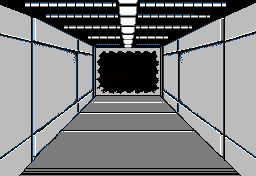
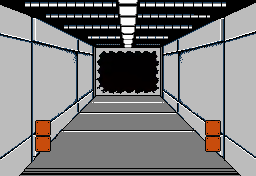
Add sprites hammer bros

Changed region(s): [[0.7812, 0.6818, 0.875, 0.8807], [0.125, 0.6818, 0.2188, 0.8807]]

diff --git a/2DGame/02-Bubble/02-Bubble/HammerBros.cpp b/2DGame/02-Bubble/02-Bubble/HammerBros.cpp
@@ -1,0 +1,130 @@
+#include "HammerBros.h"
+#include <cmath>
+#include <iostream>
+#include <GL/glew.h>
+#include <GL/glut.h>
+#include "Balas.h"
+
+#define NUM_BALES 90
+#define FALL_STEP 4
+
+
+enum HammerBrosAnims
+{
+	MOVE_RIGHT, MOVE_LEFT, ATTACK_RIGHT, ATTACK_LEFT, DIE_RIGHT, DIE_LEFT
+};
+
+void HammerBros::init(const glm::ivec2& tileMapPos, ShaderProgram& shaderProgram)
+{
+	hp = 5;
+	dead = false;
+	direction = MOVE_LEFT;
+	spritesheet.loadFromFile("images/hammer_bros.png", TEXTURE_PIXEL_FORMAT_RGBA);
+
+	spriteSize = glm::ivec2(16, 24);
+
+	//for (int i = 0; i < NUM_BALES; i++)
+	//{
+		//bales[i] = new Balas();
+		//bales[i]->init(tileMapPos, shaderProgram);
+		//bales[i]->setTileMap(map);
+	//}
+
+	sprite = Sprite::createSprite(spriteSize, glm::vec2(0.25, 0.25), &spritesheet, &shaderProgram);
+	sprite->setNumberAnimations(6);
+
+	sprite->setAnimationSpeed(MOVE_RIGHT, 8);
+	sprite->addKeyframe(MOVE_RIGHT, glm::vec2(0.75f, 0.0f));
+	sprite->addKeyframe(MOVE_RIGHT, glm::vec2(0.5f, 0.0f));
+
+	sprite->setAnimationSpeed(MOVE_LEFT, 8);
+	sprite->addKeyframe(MOVE_LEFT, glm::vec2(0.25f, 0.0f));
+	sprite->addKeyframe(MOVE_LEFT, glm::vec2(0.0f, 0.0f));
+
+	sprite->setAnimationSpeed(ATTACK_RIGHT, 8);
+	sprite->addKeyframe(ATTACK_RIGHT, glm::vec2(0.75f, 0.25f));
+	sprite->addKeyframe(ATTACK_RIGHT, glm::vec2(0.5f, 0.25f));
+
+	sprite->setAnimationSpeed(ATTACK_LEFT, 8);
+	sprite->addKeyframe(ATTACK_LEFT, glm::vec2(0.25f, 0.25f));
+	sprite->addKeyframe(ATTACK_LEFT, glm::vec2(0.0f, 0.25f));
+
+	sprite->setAnimationSpeed(DIE_LEFT, 8);
+	sprite->addKeyframe(DIE_LEFT, glm::vec2(0.0f, 0.5f));
+	sprite->addKeyframe(DIE_LEFT, glm::vec2(0.25f, 0.5f));
+	sprite->addKeyframe(DIE_LEFT, glm::vec2(0.5f, 0.5f));
+	sprite->addKeyframe(DIE_LEFT, glm::vec2(0.75f, 0.5f));
+
+	sprite->setAnimationSpeed(DIE_RIGHT, 8);
+	sprite->addKeyframe(DIE_RIGHT, glm::vec2(0.75f, 0.75f));
+	sprite->addKeyframe(DIE_RIGHT, glm::vec2(0.5f, 0.75f));
+	sprite->addKeyframe(DIE_RIGHT, glm::vec2(0.25f, 0.75f));
+	sprite->addKeyframe(DIE_RIGHT, glm::vec2(0.0f, 0.75f));
+
+	sprite->changeAnimation(direction);
+	tileMapDispl = tileMapPos;
+	sprite->setPosition(glm::vec2(float(tileMapDispl.x + posPlayer.x), float(tileMapDispl.y + posPlayer.y)));
+}
+
+void HammerBros::update(int deltaTime)
+{
+	sprite->update(deltaTime);
+	if ((sprite->animation() == DIE_LEFT || sprite->animation() == DIE_RIGHT) && sprite->lastKeyFrame())
+		dead = true;
+	if (hp > 0) {
+		posPlayer.y += FALL_STEP;
+		bJumping = !map->collisionMoveDown(posPlayer, spriteSize, &posPlayer.y);
+		if (map->collisionMoveLeft(posPlayer, spriteSize))
+			direction = MOVE_RIGHT;
+		else if (map->collisionMoveRight(posPlayer, spriteSize))
+			direction = MOVE_LEFT;
+
+		if (direction == MOVE_LEFT)
+		{
+			if (sprite->animation() != MOVE_LEFT)
+				sprite->changeAnimation(MOVE_LEFT);
+			posPlayer.x -= 1;
+		}
+		else if (direction == MOVE_RIGHT)
+		{
+			if (sprite->animation() != MOVE_RIGHT)
+				sprite->changeAnimation(MOVE_RIGHT);
+			posPlayer.x += 1;
+		}
+		else if (direction == ATTACK_LEFT && sprite->lastKeyFrame())
+		{
+			sprite->changeAnimation(MOVE_LEFT);
+			posPlayer.x -= 1;
+
+		}
+		else
+		{
+			sprite->changeAnimation(MOVE_RIGHT);
+			posPlayer.x -= 1;
+		}
+
+		//if (sprite->lastKeyFrame())
+		//{
+			//if (direction == MOVE_LEFT && ((double)rand() / (RAND_MAX)) < 0.005)
+				//direction = ATTACK_LEFT;
+			//else if (direction == MOVE_RIGHT && ((double)rand() / (RAND_MAX)) < 0.005)
+				//direction = ATTACK_RIGHT;
+		//}
+	}
+	else
+	{
+		if (direction == DIE_LEFT && sprite->animation() != DIE_LEFT)
+			sprite->changeAnimation(DIE_LEFT);
+		else if (direction == DIE_RIGHT && sprite->animation() != DIE_RIGHT)
+			sprite->changeAnimation(DIE_RIGHT);
+	}
+
+	sprite->setPosition(glm::vec2(float(tileMapDispl.x + posPlayer.x), float(tileMapDispl.y + posPlayer.y)));
+}
+
+//void HammerBros::render()
+//{
+	//if (!dead)
+		//sprite->render();
+//}
+

diff --git a/2DGame/02-Bubble/02-Bubble/Scene.cpp b/2DGame/02-Bubble/02-Bubble/Scene.cpp
@@ -102,7 +102,7 @@ int Scene::update(int deltaTime)
 	}
 	else if (level == 3 && goalState3()) return 0;
 	
-
+	hammerBros->update(deltaTime);
 	updateCamera(deltaTime);
 	return 1;	// si te quedas sin vidas retorna 0 que es volver al Menu
 }
@@ -150,6 +150,8 @@ void Scene::render()
 		explosion->setPosition(glm::ivec2(160 , 70));
 		explosion->render();
 	}
+
+	hammerBros->render();
 
 	//textLifes.render("Lifes: " + to_string(lives), glm::vec2(10, 10 + 32), 32, glm::vec4(1, 1, 1, 1));
 }
@@ -209,6 +211,7 @@ void Scene::loadLevel(int lvl)
 	player->setFrontal(false);
 	setPlayerIniPos();
 	loadEnemies(level);
+
 	if (lvl == 2)
 	{
 		cameraState = FRONTAL;
@@ -265,6 +268,11 @@ void Scene::loadEnemies(int lvl)
 	goomba[17]->setPosition(glm::vec2((145) * map->getTileSize(), 5 * map->getTileSize()));
 	goomba[18]->setPosition(glm::vec2((156) * map->getTileSize(), 4 * map->getTileSize()));
 	goomba[19]->setPosition(glm::vec2((160) * map->getTileSize(), 7 * map->getTileSize()));
+
+	hammerBros = new HammerBros;
+	hammerBros->init(glm::ivec2(CAMERA_X, CAMERA_Y), texProgram);
+	hammerBros->setTileMap(map);
+	hammerBros->setPosition(glm::vec2((18) * map->getTileSize(), 10 * map->getTileSize()));
 
 }
 

diff --git a/2DGame/02-Bubble/02-Bubble/HammerBros.h b/2DGame/02-Bubble/02-Bubble/HammerBros.h
@@ -1,0 +1,27 @@
+#pragma once
+
+#include "Sprite.h"
+#include "TileMap.h"
+#include "Balas.h"
+#include "Goomba.h"
+
+class HammerBros : public Goomba
+{
+public:
+	void init(const glm::ivec2& tileMapPos, ShaderProgram& shaderProgram);
+	void update(int deltaTime);
+	//void render();
+
+	//bool dies(const glm::vec2& posEnemie, const glm::ivec2& sizeTile);
+	//bool kills(const glm::vec2& posEnemie, const glm::ivec2& sizeTile);
+
+private:
+	//void shoot(const glm::vec2& pos, int angle);
+
+private:
+	int actualHammer;
+	Balas* bales[90];
+	int canShoot;
+
+};
+

diff --git a/2DGame/02-Bubble/02-Bubble/Explosion.cpp b/2DGame/02-Bubble/02-Bubble/Explosion.cpp
@@ -36,11 +36,10 @@ void Explosion::init(const glm::ivec2& pos, ShaderProgram& shaderProgram)
 
 void Explosion::update(int deltaTime)
 {
-	timer += deltaTime;
-	if (timer <= 1000)
-		sprite->update(deltaTime);
-	else
+	if (sprite->lastKeyFrame())
 		end = true;
+	else if (!end)
+		sprite->update(deltaTime);
 }
 
 void Explosion::render()
@@ -67,7 +66,6 @@ glm::vec2 Explosion::getPos()
 
 void Explosion::start() {
 	end = false;
-	timer = 0.0f;
 }
 
 bool Explosion::hasFinished() {

diff --git a/2DGame/02-Bubble/02-Bubble/Goomba.h b/2DGame/02-Bubble/02-Bubble/Goomba.h
@@ -28,16 +28,18 @@ public:
 	 
 
 private:
-	bool bJumping;
-	glm::ivec2 tileMapDispl, posPlayer, spriteSize;
 	int jumpAngle, startY;
-	Texture spritesheet;
 	Texture spritesheet2;
+	
+protected:
+	glm::ivec2 tileMapDispl, posPlayer, spriteSize;
+	Texture spritesheet;
 	Sprite* sprite;
 	TileMap* map;
+	bool bJumping;
 	int hp;
-	int direction;
 	bool dead;
+	int direction;
 
 };
 

diff --git a/2DGame/02-Bubble/02-Bubble/Scene.h b/2DGame/02-Bubble/02-Bubble/Scene.h
@@ -7,6 +7,7 @@
 #include "TileMap.h"
 #include "Player.h"
 #include "Goomba.h"
+#include "HammerBros.h"
 #include "TexturedQuad.h"
 #include "Sphere.h"
 #include "Explosion.h"
@@ -54,6 +55,8 @@ private:
 	Sphere* sphere;
 	float cineTimer;
 	Explosion *explosion;
+
+	HammerBros* hammerBros;
 
 };
 

diff --git a/2DGame/02-Bubble/02-Bubble/Explosion.h b/2DGame/02-Bubble/02-Bubble/Explosion.h
@@ -20,6 +20,5 @@ private:
 	Texture spritesheet;
 	Sprite* sprite;
 	bool end;
-	int timer;
 };
 
